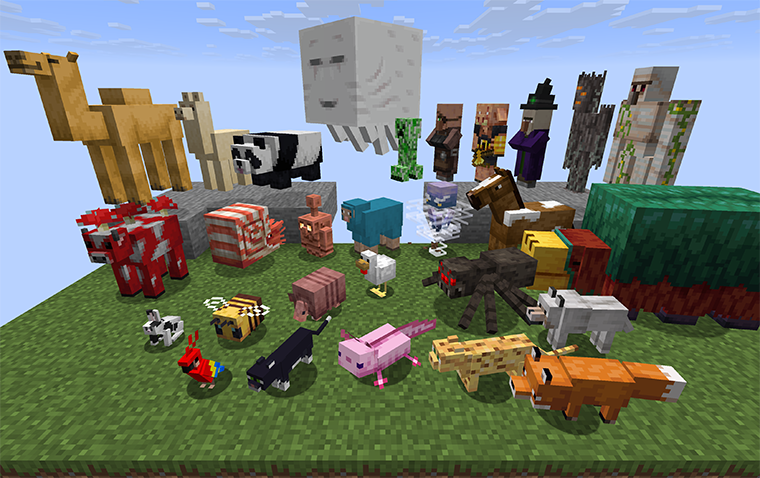
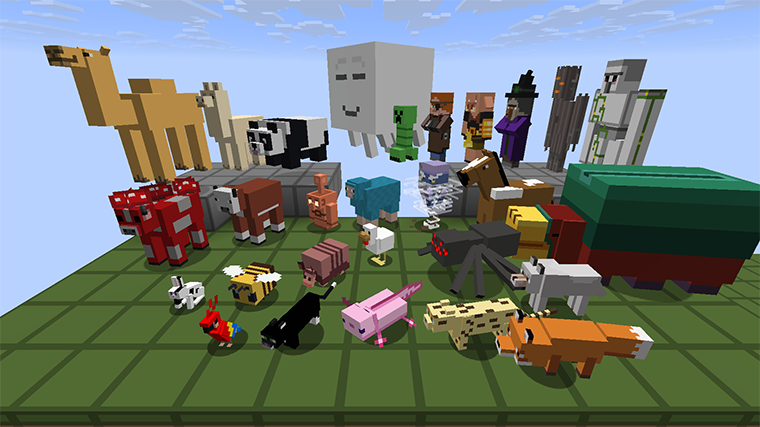
mob shot

diff --git a/site/index.html b/site/index.html
@@ -384,7 +384,8 @@
         <ul>
             <li> Version numbering will be the same as the Minecraft version they are built for (for example, version
                 1.16.2 is made for Minecraft 1.16.2). Intermediate releases for the same Minecraft version will have
-                another subversion place added (1.16.2.1).
+                another subversion place added (1.16.2.1). If the version has experimental features, the name will have
+		"+x" appended to it.
             <li> All mobs are modified, but for many of them, the primary goal is simply noise reduction. Chickens,
                 polar bears, endermen, etc., are often only changed to simpler swaths of color.
             <li> Fires are lowered in height, so they don't interfere with your vision, and are slowed down to be less
